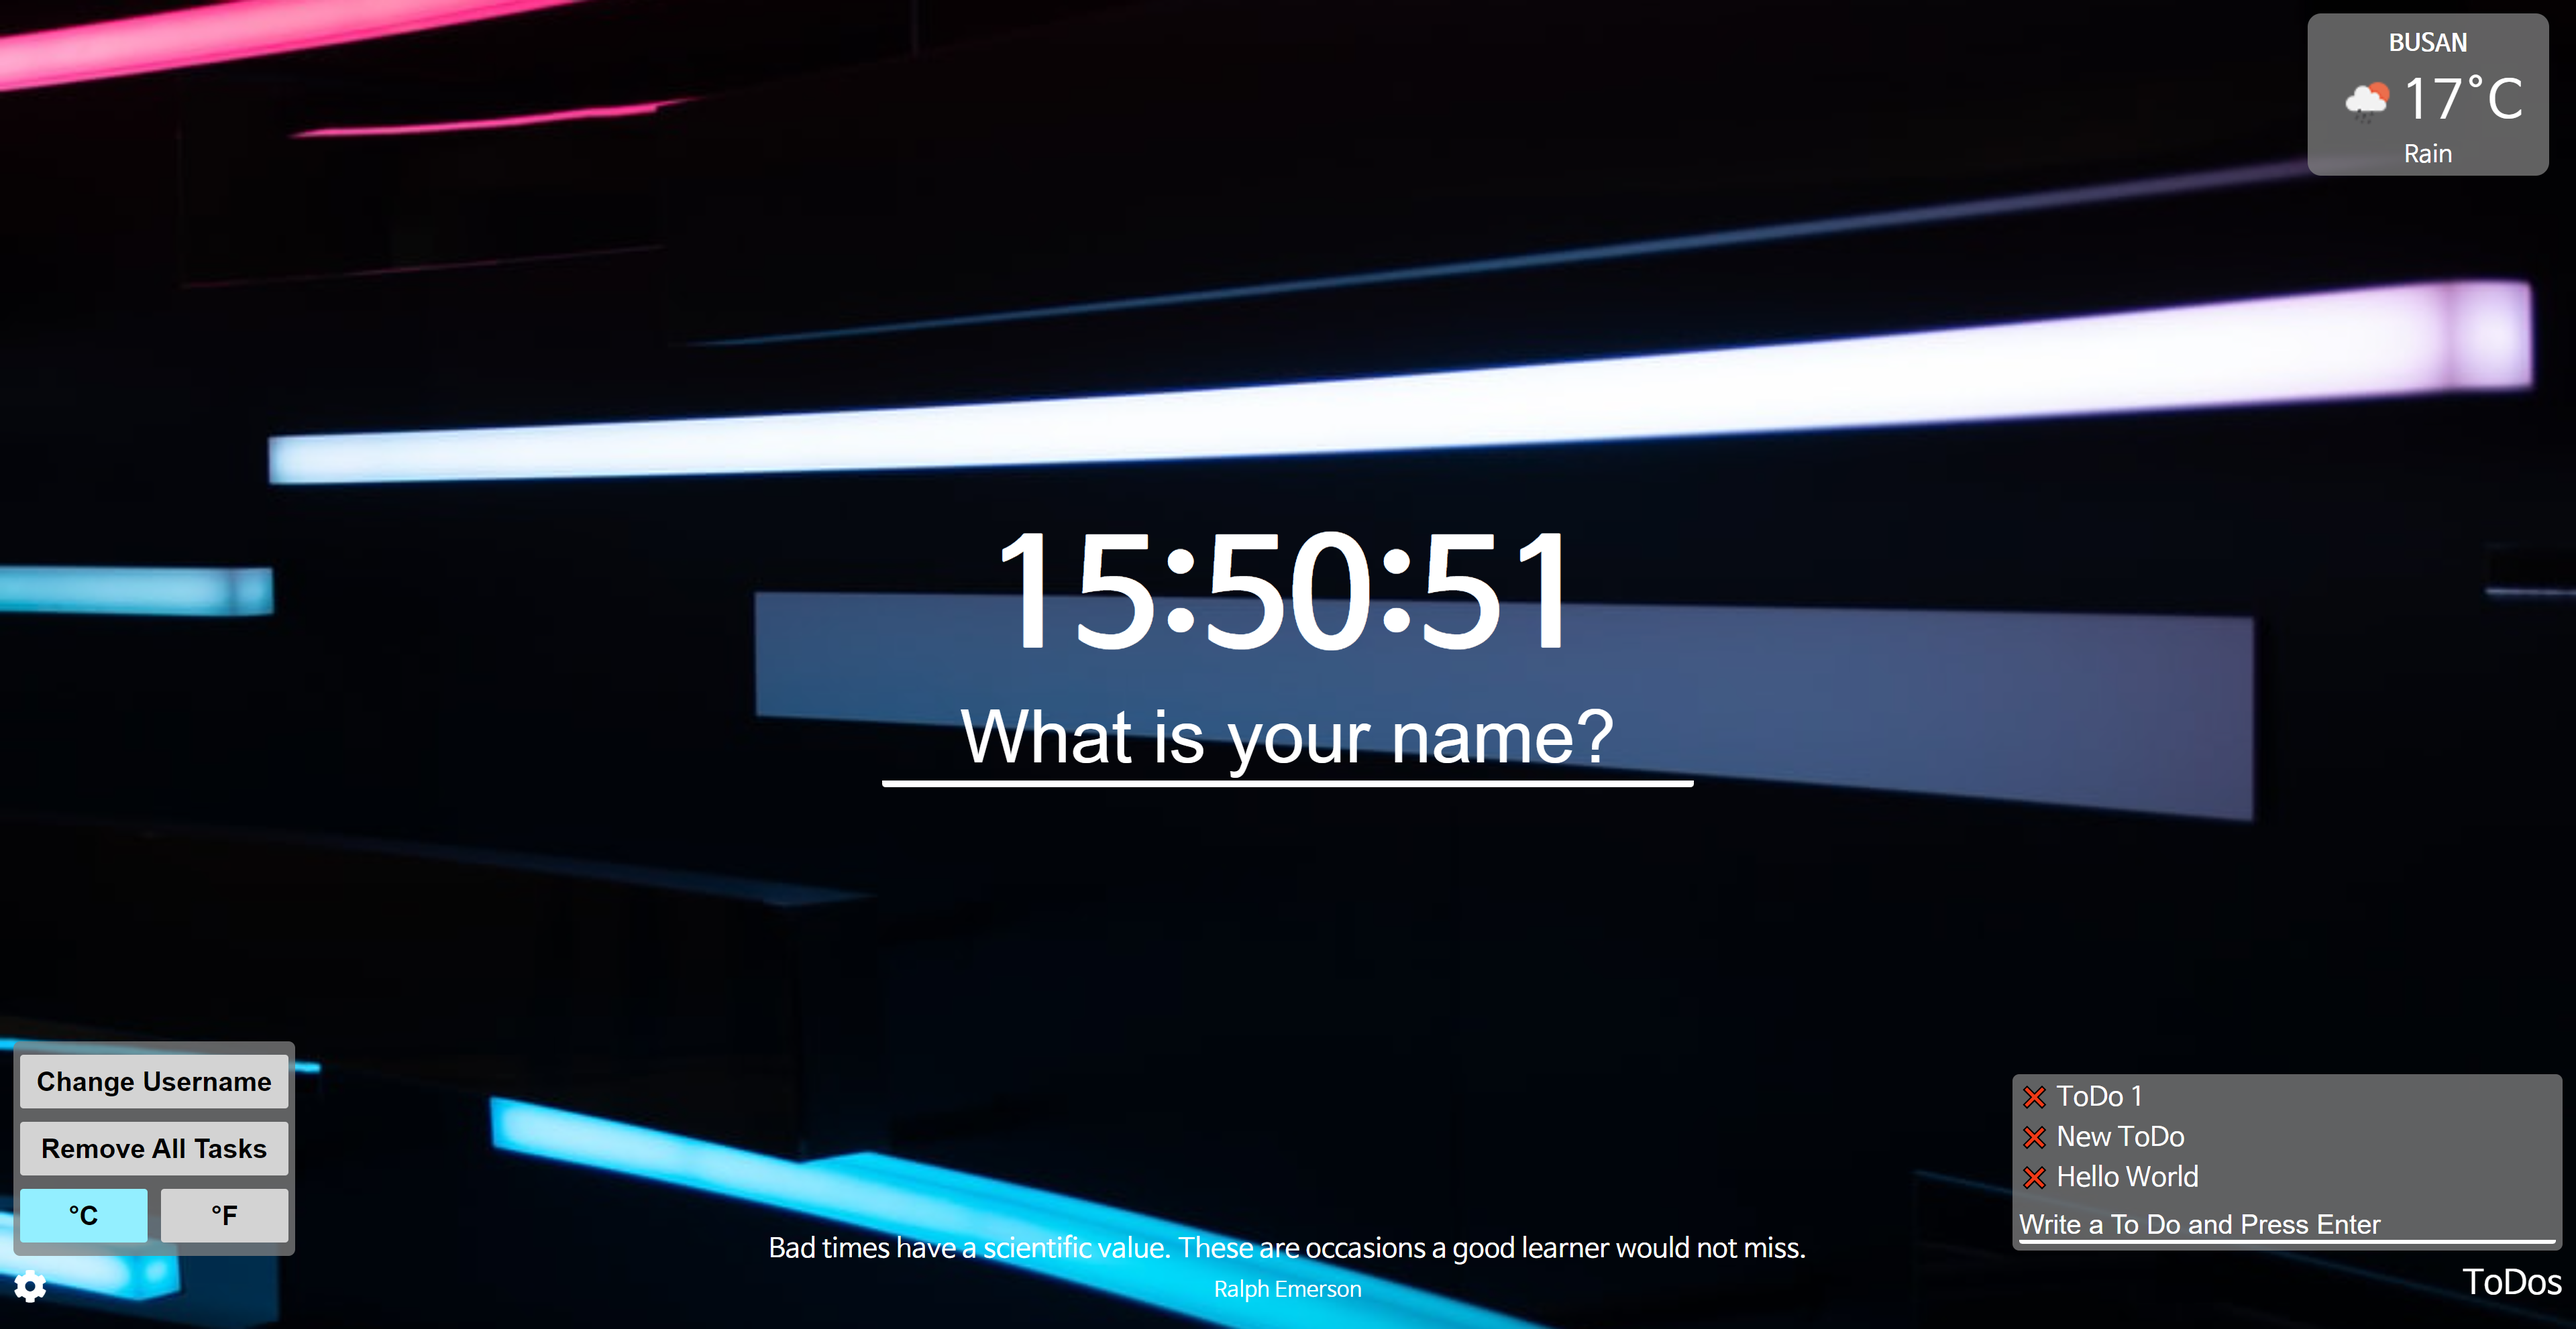
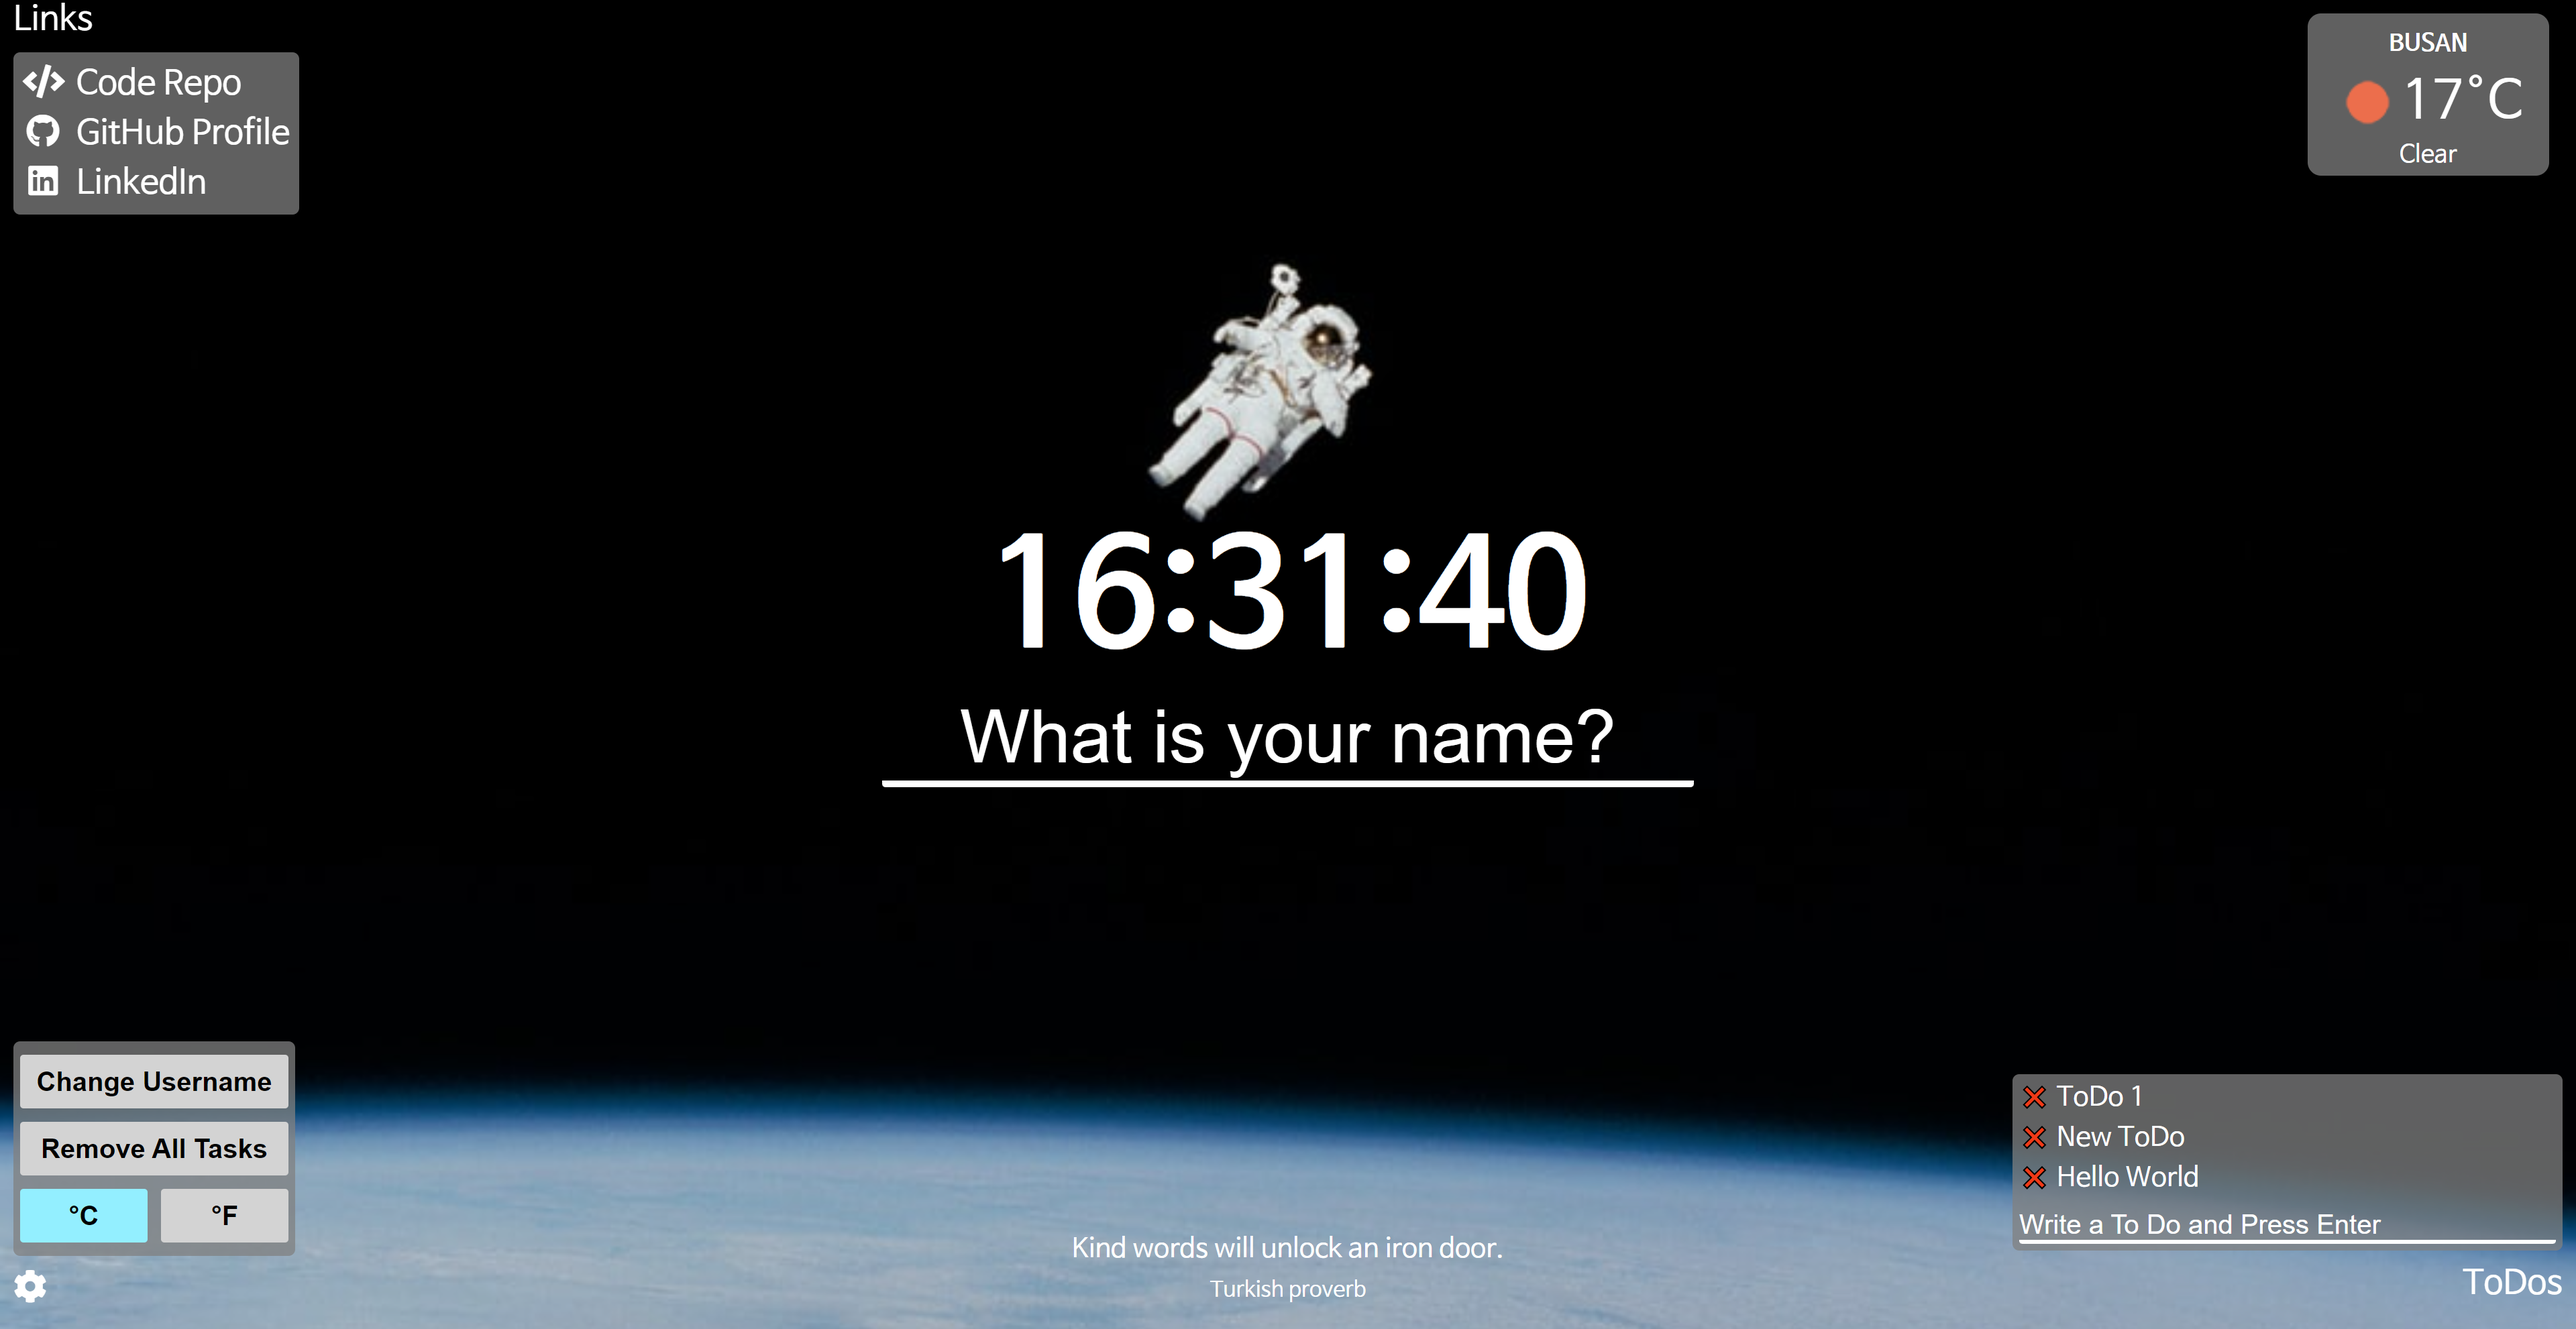
Links

diff --git a/momentum-clone/css/style.css b/momentum-clone/css/style.css
@@ -278,3 +278,49 @@ input {
   padding: 0;
   margin-right: 0.25rem;
 }
+
+#link-placer {
+  position: absolute;
+  top: 0.5rem;
+  left: 0.5rem;
+  font-size: 1.25rem;
+  display: flex;
+  -ms-flex-direction: column;
+  -webkit-flex-direction: column;
+  -moz-flex-direction: column;
+  flex-direction: column;
+  z-index: 2;
+}
+
+#link-placer #link-wrapper {
+  display: none;
+  -ms-flex-direction: column;
+  -webkit-flex-direction: column;
+  -moz-flex-direction: column;
+  flex-direction: column;
+  background-color:rgba(128, 128, 128, 0.75);
+  color: white;
+  margin-top: 0.5rem;
+  padding-top: 0.25rem;
+  padding-bottom: 0.25rem;
+  padding-right: 0.35rem;
+  padding-left: 0.35rem;
+  border-radius: 0.25rem;
+}
+
+#link-placer #link-wrapper div {
+  display: flex;
+  margin-top: 0.2rem;
+  margin-bottom: 0.2rem;
+}
+
+#link-placer #link-wrapper div i {
+  width: 1.5rem;
+  text-align: center;
+  margin-right: 0.5rem;
+}
+
+#link-placer #link-wrapper div a {
+  text-decoration: none;
+  color: white;
+}

diff --git a/momentum-clone/index.html b/momentum-clone/index.html
@@ -26,6 +26,26 @@
     </div>
     <script async src="js/weather.js"></script>
 
+    <!-- Links -->
+    <div id="link-placer">
+      <div id="link-button">Links</div>
+      <div id="link-wrapper">
+        <div id="code-repo">
+          <i class="fas fa-code"></i>
+          <a href="https://github.com/hyecheol123/NomadCoder-Momentum" target="_blank">Code Repo</a>
+        </div>
+        <div id="github-profile">
+          <i class="fab fa-github"></i>
+          <a href="https://github.com/hyecheol123" target="_blank">GitHub Profile</a>
+        </div>
+        <div id="linkedIn">
+          <i class="fab fa-linkedin"></i>
+          <a href="https://www.linkedin.com/in/jhyecheol/" target="_blank">LinkedIn</a>
+        </div>
+      </div>
+    </div>
+    <script defer src="js/links.js"></script>
+
     <div id="greeting-wrapper">
       <!-- Greeting-->
       <h2 id="clock">00:00:00</h2>

diff --git a/momentum-clone/js/links.js b/momentum-clone/js/links.js
@@ -1,0 +1,11 @@
+// HTML Element
+const linkWrapper = document.querySelector("#link-wrapper");
+const linkButton = document.querySelector("#link-button");
+
+linkButton.addEventListener("click", () => {
+  if(linkWrapper.style.display === "flex") {
+    linkWrapper.style.display = "none";
+  } else {
+    linkWrapper.style.display = "flex";
+  }
+});

diff --git a/README.md b/README.md
@@ -104,6 +104,7 @@ Only used HTML, CSS, Vanilla JavaScript.
   - Able to make user's to choose their temperature unit preferrence
     - Preference will be stored in `localStorage`
     - By default, Celcius will be used.
+- Links to code repo, github profile, and linkedIn Profile
 - Design
   - Font applied: [NanumBarunGothic](https://github.com/moonspam/NanumBarunGothic)
   - Location of elements (using `flex`).
